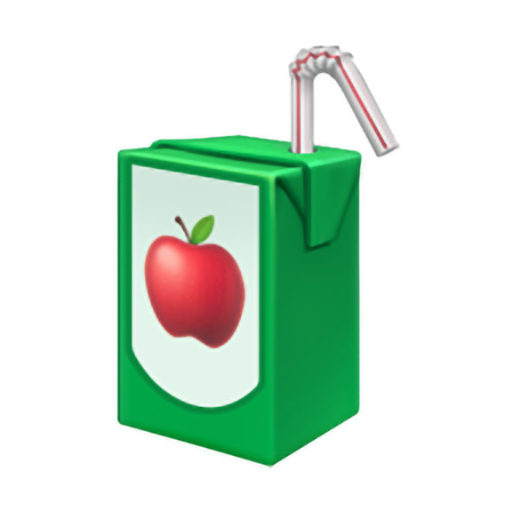
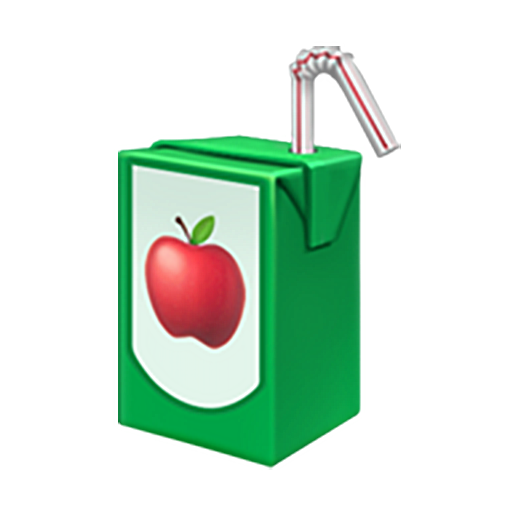
Add files via upload

diff --git a/index.html b/index.html
@@ -9,8 +9,12 @@
 <meta name="apple-mobile-web-app-capable" content="yes">
 <meta name="apple-mobile-web-app-status-bar-style" content="black-translucent">
 <meta name="theme-color" content="#0a0a0b">
+<!-- Chrome tab & bookmark: transparent background, emoji only -->
+<link rel="icon" type="image/png" sizes="32x32" href="favicon-32.png">
+<link rel="icon" type="image/png" sizes="16x16" href="favicon-16.png">
+<!-- iPhone "Add to Home Screen": emoji on white background -->
 <link rel="apple-touch-icon" href="apple-touch-icon.png">
-<link rel="icon" type="image/png" href="icon-192.png">
+<!-- Android / PWA install (optional) -->
 <link rel="manifest" href="manifest.webmanifest">
 <link rel="preconnect" href="https://fonts.googleapis.com">
 <link rel="preconnect" href="https://fonts.gstatic.com" crossorigin>

diff --git a/news_winrate_calendar.html b/news_winrate_calendar.html
@@ -9,8 +9,12 @@
 <meta name="apple-mobile-web-app-capable" content="yes">
 <meta name="apple-mobile-web-app-status-bar-style" content="black-translucent">
 <meta name="theme-color" content="#0a0a0b">
+<!-- Chrome tab & bookmark: transparent background, emoji only -->
+<link rel="icon" type="image/png" sizes="32x32" href="favicon-32.png">
+<link rel="icon" type="image/png" sizes="16x16" href="favicon-16.png">
+<!-- iPhone "Add to Home Screen": emoji on white background -->
 <link rel="apple-touch-icon" href="apple-touch-icon.png">
-<link rel="icon" type="image/png" href="icon-192.png">
+<!-- Android / PWA install (optional) -->
 <link rel="manifest" href="manifest.webmanifest">
 <link rel="preconnect" href="https://fonts.googleapis.com">
 <link rel="preconnect" href="https://fonts.gstatic.com" crossorigin>
